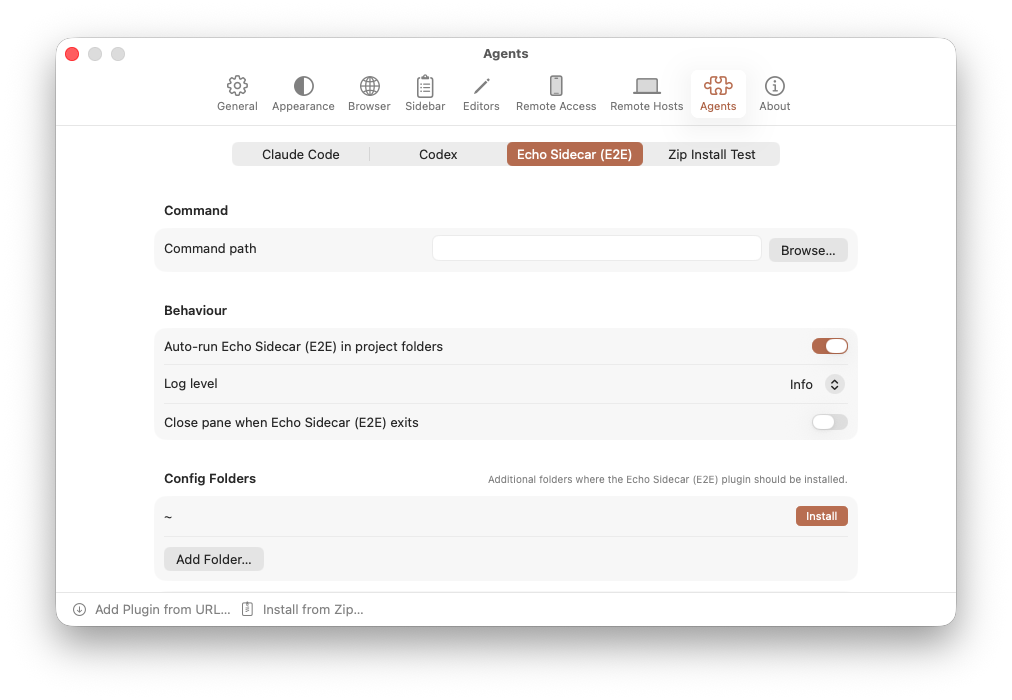
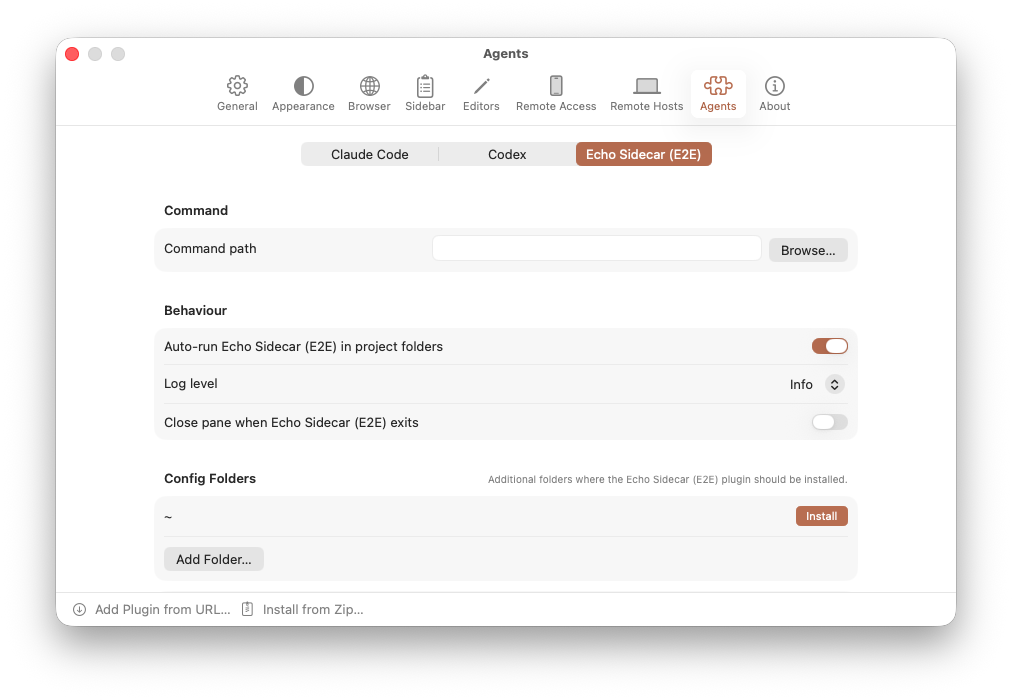
Isolate e2e plugin state per scenario so Agents baselines stop flapping (#693)
* Isolate e2e plugin state per scenario so Agents baselines stop flapping

The Agents-picker screenshot baselines depended on which plugin scenarios
ran before them. Per-scenario `TestOrchestrator.cleanup()` removed each
instance's `<base>/<idx>` state root but never the SIBLING `<base>/plugins/`
(+ `<base>/registry.json`) where staged/installed sidecars land — so a plugin
staged or installed by one scenario lingered for the rest of the run and
leaked into every later scenario that opened Settings → Agents. That
scenario's picker, and its baseline, then depended on run order. Because CI
can capture scenarios in varying orders, whichever leak state it happened to
bake into a baseline failed comparison on the next run (issue #690:
agents-remove-plugin-live/01 flipping between 4 tabs and 3).

Fix (both remedies the issue proposed):
- Isolate plugin state per scenario: `cleanup()` now also wipes the shared
  `<base>/plugins`, `<base>/registry.json`, and `<base>/zip-fixtures`, so no
  plugin can cross a scenario boundary. Deterministic by construction and
  order-independent — each scenario re-stages what it needs at launch.
- Self-clean the zip scenario: AgentsInstallZipAutoSelectScenario removes its
  installed `ziptest-sidecar` over the CLI at the end. Belt-and-suspenders for
  the leak, and it earns its keep as coverage — exercising `gallager plugin
  remove` (CLI → plugin.remove RPC) and proving the picker refreshes live on
[…]

Changed region(s): [[0.4901, 0.18, 0.7658, 0.24], [0.2451, 0.21, 0.4595, 0.24]]

diff --git a/ClaudeSpyPackage/Sources/ClaudeSpyE2ELib/Orchestrator/TestOrchestrator.swift b/ClaudeSpyPackage/Sources/ClaudeSpyE2ELib/Orchestrator/TestOrchestrator.swift
@@ -303,14 +303,13 @@ public actor TestOrchestrator {
     /// Run multiple scenarios, cleaning up after each one
     public func runAll(_ scenarios: [TestScenario]) async -> [ScenarioResult] {
         // Reset the shared gallager state-root base once before the suite runs.
-        // Per-scenario `cleanup()` only removes `<base>/<idx>` — never the sibling
-        // `<base>/plugins/` where sidecar fixtures and zip-installed plugins land.
-        // Because `<base>` defaults to a stable `NSTemporaryDirectory()` path that
-        // is reused across runs, a prior run's `AgentsInstallZipAutoSelectScenario`
-        // would otherwise leave `ziptest-sidecar` behind and leak a phantom
-        // "Zip Install Test" agent into the *next* run's `AgentsSettingsTabScenario`
-        // (which registers before the zip scenario). Wiping here guarantees every
-        // suite run starts with an empty plugins dir → a deterministic agent list.
+        // `<base>` defaults to a stable `NSTemporaryDirectory()` path reused across
+        // runs, so without this a prior run's leftover installed plugin (e.g.
+        // `ziptest-sidecar` from `AgentsInstallZipAutoSelectScenario`) would leak a
+        // phantom agent into the *next* run's first plugin scenario. Per-scenario
+        // `cleanup()` now also wipes this shared plugin state, so leaks can't cross
+        // a scenario boundary *within* a run either (issue #690); this suite-level
+        // reset still guards the very first scenario against a prior run's leftovers.
         try? FileManager.default.removeItem(atPath: gallagerStateRootBase)
         logger.info("Reset gallager state-root base: \(gallagerStateRootBase)")
 
@@ -382,6 +381,25 @@ public actor TestOrchestrator {
             // Remove the instance's `--gallager-state-root` tree (incl. the
             // stale ingress socket) so the next scenario binds a fresh socket.
             try? FileManager.default.removeItem(atPath: gallagerStateRootPath(for: idx))
+        }
+
+        // Wipe the shared plugin state that lives at the gallager-root level — a
+        // SIBLING of the per-instance `<base>/<idx>` state roots removed above, so
+        // the loop never touched it. Sidecar fixtures and zip-installed plugins
+        // land in `<base>/plugins/<id>` (+ a `<base>/registry.json` entry for
+        // installs), and each scenario re-stages what it needs at launch. Without
+        // this, a plugin staged/installed by one scenario lingered for the rest of
+        // the run and leaked into every later scenario that opens Settings →
+        // Agents — so that scenario's picker, and its screenshot baseline, depended
+        // on which scenarios (and in which order) ran before it. Because CI can
+        // capture scenarios in varying orders, whichever leak state it happened to
+        // bake into a baseline then failed comparison on the next run (issue #690).
+        // Clearing it here makes each scenario's plugin state deterministic and
+        // order-independent. (`gallagerStateRootBase` is the app's `gallagerRoot` —
+        // the parent of every `--gallager-state-root` override.)
+        let sharedRoot = URL(fileURLWithPath: gallagerStateRootBase)
+        for component in ["plugins", "registry.json", "zip-fixtures"] {
+            try? FileManager.default.removeItem(at: sharedRoot.appendingPathComponent(component))
         }
 
         logger.info("=== Cleanup complete ===")

diff --git a/ClaudeSpyPackage/Sources/ClaudeSpyE2ELib/Scenarios/AgentsInstallZipAutoSelectScenario.swift b/ClaudeSpyPackage/Sources/ClaudeSpyE2ELib/Scenarios/AgentsInstallZipAutoSelectScenario.swift
@@ -16,6 +16,11 @@ import Foundation
 /// `NSOpenPanel` that e2e can't drive. The zip itself is built from the real
 /// `EchoPluginSidecar` binary so the install actually enables (a successful
 /// install — not enableFailed — is what sets `lastInstalledPluginID`).
+///
+/// Finally the scenario removes the plugin again over the CLI (`gallager plugin
+/// remove`), which both keeps its installed plugin from leaking into later
+/// scenarios' pickers (issue #690) and covers the CLI-remove path + the live
+/// picker refresh on removal.
 public enum AgentsInstallZipAutoSelectScenario {
     public static let scenario = ClaudeSpyE2ELib.scenario(
         "Agents Install Zip Auto Select",
@@ -72,5 +77,26 @@ public enum AgentsInstallZipAutoSelectScenario {
         TestStep.macWaitForElement(titled: "Zip Install Test", timeout: 15)
         TestStep.macWaitForElement(titled: "Auto-run Zip Install Test", timeout: 10)
         TestStep.macScreenshot(label: "mac-agents-zip-installed-selected")
+
+        // 7. Clean up: remove the just-installed plugin over the CLI. The
+        //    orchestrator now also wipes shared plugin state between scenarios
+        //    (issue #690), so this is belt-and-suspenders for the leak — but it
+        //    also earns its keep as coverage: it gives `gallager plugin remove`
+        //    (CLI → `plugin.remove` RPC) its own e2e exercise and proves the picker
+        //    refreshes live on removal, the "Zip Install Test" segment vanishing
+        //    with no app restart (mirroring the in-form button path in
+        //    AgentsRemovePluginLiveScenario).
+        TestStep.removeFile(path: "/tmp/e2e-zip-remove.txt")
+        Shortcut.tmuxRunCommand(
+            target: "zip-install:0",
+            command: #"gallager plugin remove ziptest-sidecar --delete-state > /tmp/e2e-zip-remove.txt 2>&1"#
+        )
+        TestStep.waitForFileContains(
+            path: "/tmp/e2e-zip-remove.txt",
+            substring: "Removed ziptest-sidecar",
+            storeAs: "zipRemoveOut",
+            timeout: 20
+        )
+        TestStep.macWaitForElementToDisappear(titled: "Zip Install Test", timeout: 15)
     }
 }

diff --git a/docs/e2e-testing.md b/docs/e2e-testing.md
@@ -96,6 +96,10 @@ Both apps accept `--e2e-test` as a launch argument. When present, `prepareDepend
 
 The macOS app accepts `--tmux-socket <path>` (alongside `--e2e-test`) to use a dedicated tmux server socket instead of the system default. This prevents E2E tests from polluting the developer's real tmux sessions. The default socket path is `/tmp/claudespy-e2e.sock`. During cleanup, the orchestrator kills the isolated tmux server and removes the socket file.
 
+### Plugin state isolation
+
+Sidecar plugins are staged (`macStageSidecarFixture`) or installed (`gallager plugin install`) into the app's `~/.gallager` tree, which E2E redirects under a shared per-suite base via `--gallager-state-root`. The folder-dropped/installed bundles live in `<base>/plugins/<id>` and the installed-plugin registry in `<base>/registry.json` — both **siblings** of the per-scenario `<base>/<idx>` state root. During cleanup the orchestrator wipes this shared plugin state (`plugins/`, `registry.json`, and the E2E `zip-fixtures/` staging dir) too, so a plugin staged or installed by one scenario cannot leak into a later scenario that opens Settings → Agents. Each scenario re-stages what it needs at launch, keeping plugin state deterministic and independent of scenario order (issue #690).
+
 ### Shell history isolation
 
 Shells spawned in E2E panes never write to the developer's `~/.zsh_history`. The orchestrator maintains a `$ZDOTDIR` shim directory (`<TMPDIR>/gallager-e2e-zdotdir`) whose zsh startup files source the user's real dotfiles — so the shell behaves exactly like a normal one — and then unset `HISTFILE` after the user's rc has run. A plain `HISTFILE=` env var wouldn't work: macOS's `/etc/zshrc` reassigns `HISTFILE` after tmux applies the pane environment.
